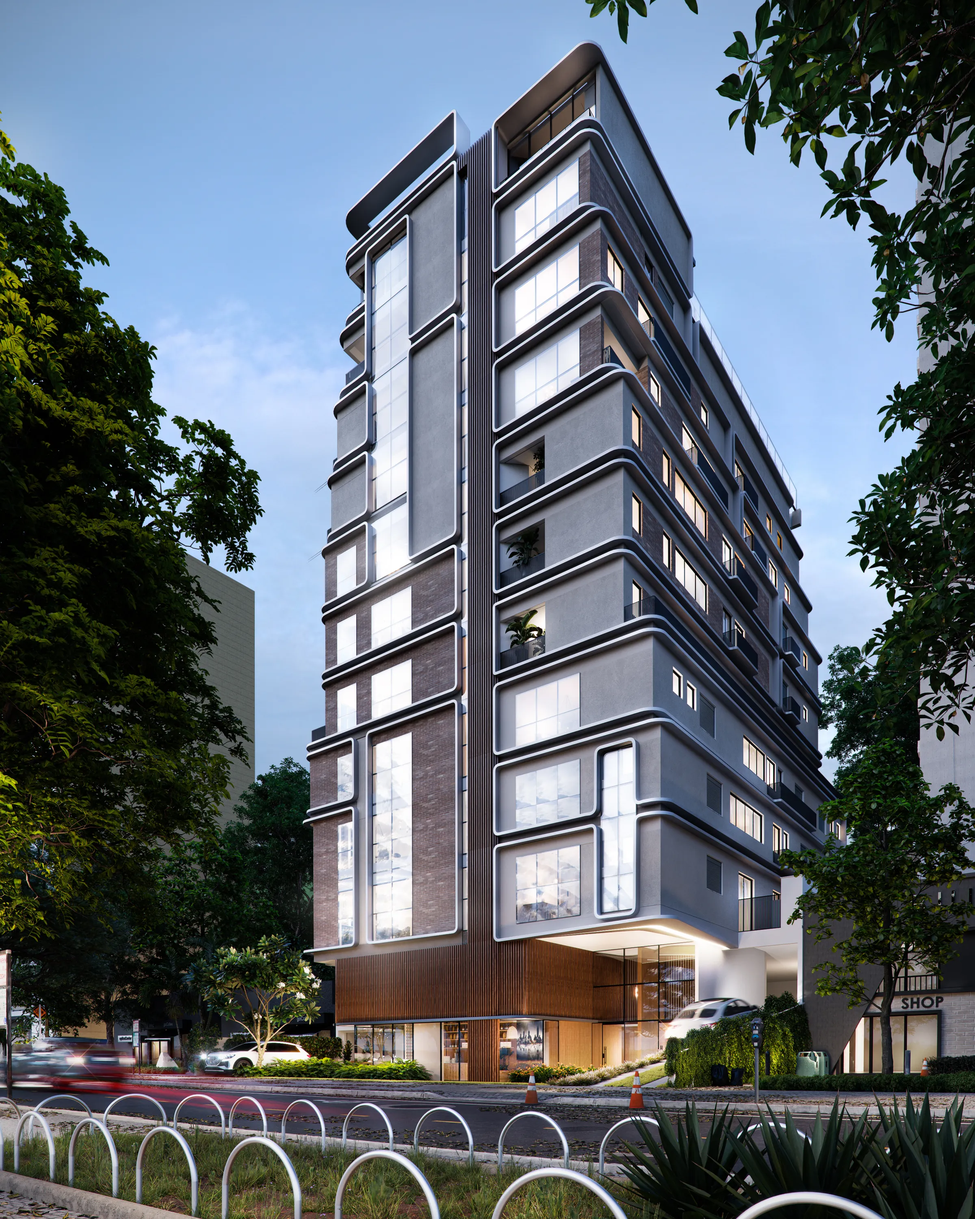
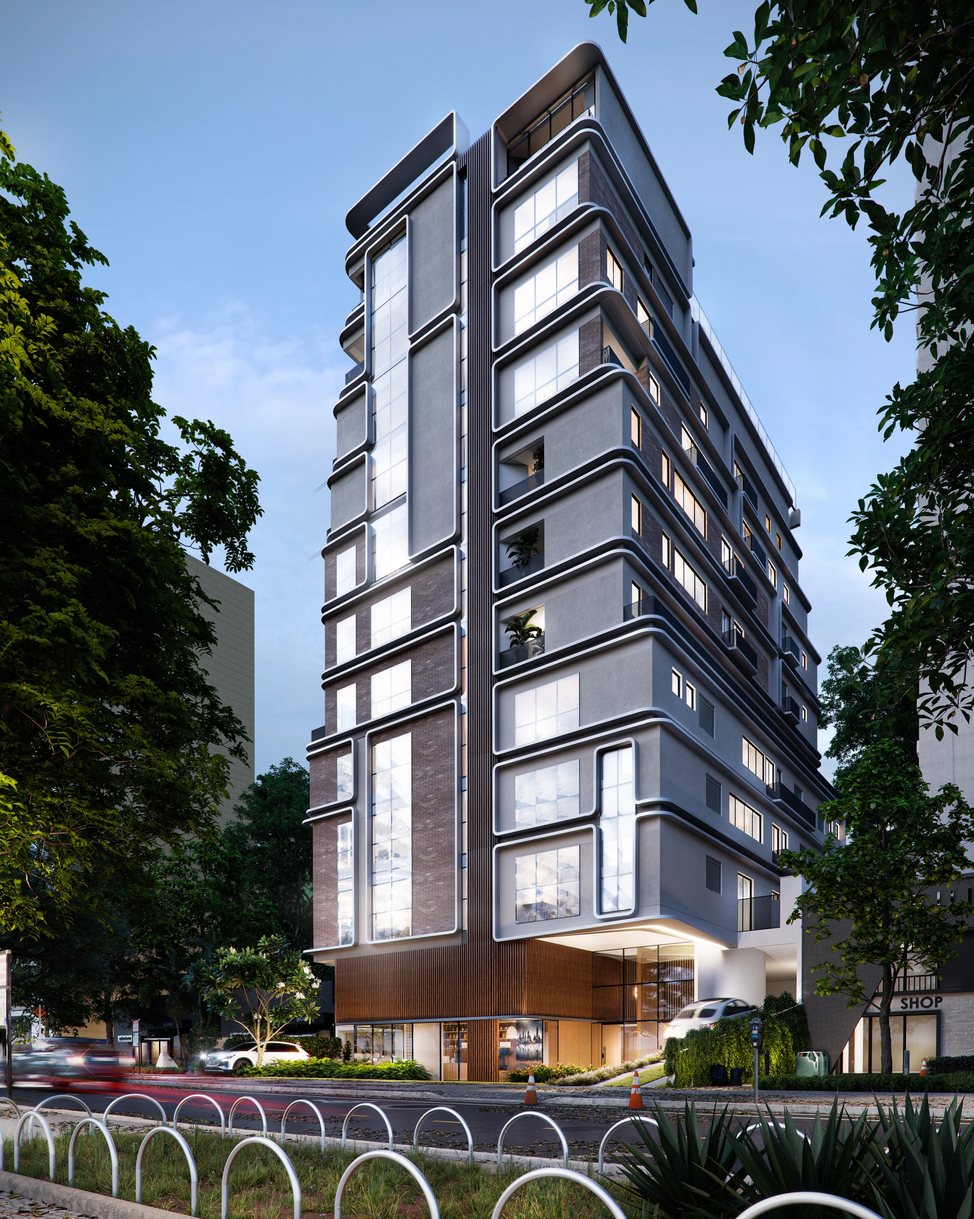
perf(images): sharper renders — larger max side + webp q86
The first pass downscaled to 1920px @ q80, which softened the 4K
renders. Cap the longest side at 2560px (gallery) / 3000px (hero) with
fit:inside and raise webp quality to 86. Follow Savassi total ~6.3 MB
(still ~11x smaller than the 72 MB originals) with visibly cleaner
detail. Featured image `sizes` bumped so the hover-zoom stays crisp.

Changed region(s): [[0.7403, 0.744, 0.802, 0.775], [0.8328, 0.558, 0.8637, 0.589]]

diff --git a/features/developments/FeaturedImage.tsx b/features/developments/FeaturedImage.tsx
@@ -60,7 +60,9 @@ export function FeaturedImage({ image, onOpen }: FeaturedImageProps) {
           src={image.src}
           alt={image.alt}
           fill
-          sizes="(max-width: 1024px) 100vw, 66vw"
+          // Pede variante maior que a caixa: dá folga p/ o hover-zoom (1.9x)
+          // continuar nítido ao ampliar.
+          sizes="(max-width: 1024px) 100vw, 1216px"
           className="object-cover"
         />
       </motion.div>
